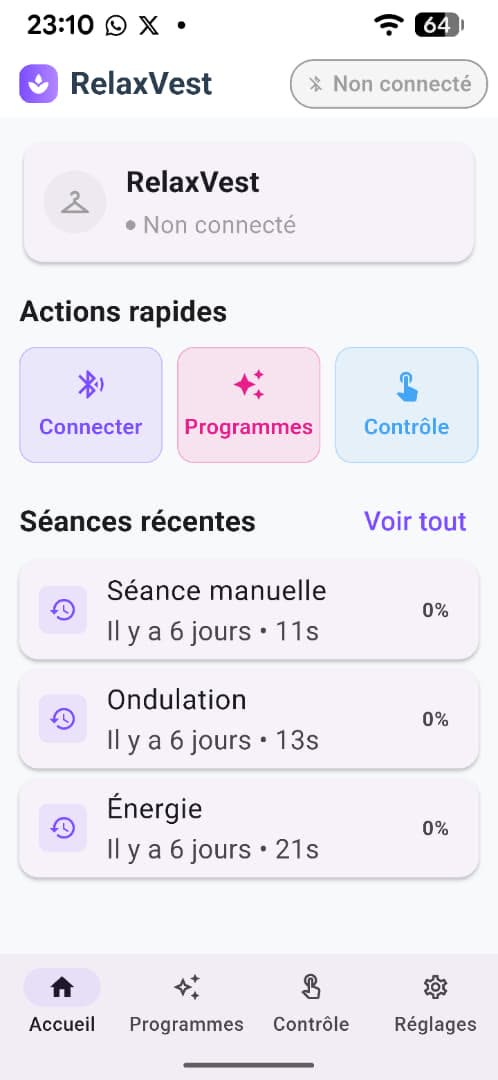
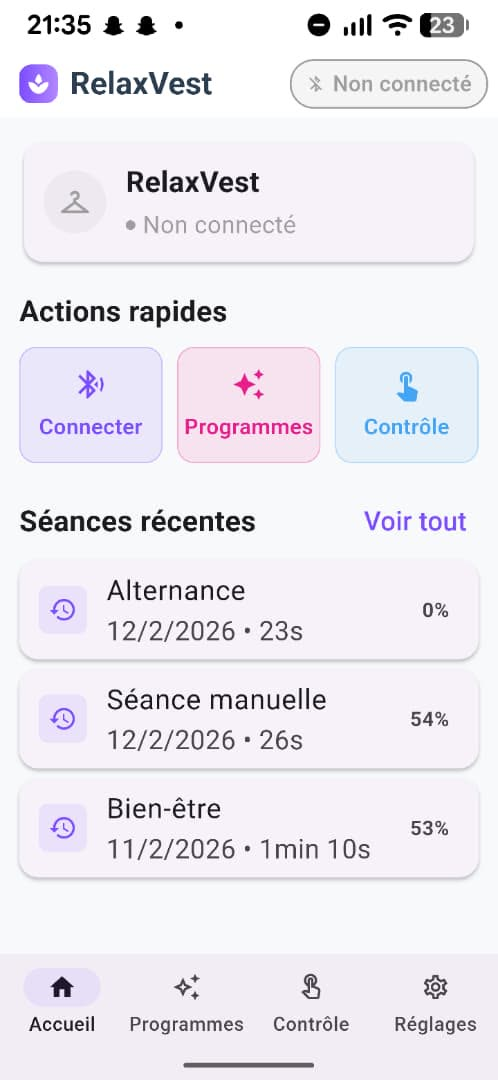
Captures des apps Nesso (bras) et RelaxVest ajoutées aux galeries
- Bras « NESSO » : 3 captures de l'app Flutter (accueil, contrôle
  joystick, mode auto par vision YOLO + cinématique inverse). Texte du
  projet enrichi (5 DOF, vocal, vision).
- RelaxVest : captures de l'app mises à jour (accueil, contrôle tactile,
  modes), version récente.
- Panneau : média en "contain" sur fond pétrole pour afficher les
  captures verticales en entier.

diff --git a/index.html b/index.html
@@ -320,7 +320,7 @@ section{padding:clamp(56px,10vh,110px) 0}
 .panel .p-role{color:var(--glow);font-size:.82rem;font-weight:600;letter-spacing:.1em;text-transform:uppercase}
 .panel .p-lines{margin-top:18px;color:var(--ink)}
 .panel .p-lines li{list-style:none;padding:9px 0;border-bottom:1px solid var(--glass-brd);color:var(--muted);font-size:.95rem}
-.panel .p-media{width:100%;aspect-ratio:16/10;border-radius:var(--r-sm);margin-bottom:12px;background:linear-gradient(135deg,#143b45,#0F3D47 72%);background-size:cover;background-position:center}
+.panel .p-media{width:100%;aspect-ratio:16/10;border-radius:var(--r-sm);margin-bottom:12px;background-color:#0e2a31;background-image:linear-gradient(135deg,#143b45,#0F3D47 72%);background-size:contain;background-repeat:no-repeat;background-position:center}
 .panel .p-thumbs{display:flex;gap:8px;flex-wrap:wrap;margin-bottom:18px}
 .panel .p-thumbs:empty{display:none}
 .panel .p-thumbs button{width:66px;height:48px;padding:0;border-radius:10px;cursor:pointer;border:1px solid var(--glass-brd);background-size:cover;background-position:center;opacity:.65;transition:opacity .2s ease,border-color .2s ease,transform .2s var(--spring)}
@@ -435,8 +435,8 @@ footer .switch a:hover{color:var(--glow)}
       <article class="card" data-project="bras">
         <span class="role">Chef de projet</span>
         <div class="media has-media"><img src="assets/proj-bras.jpg" alt="Bras robotique assemblé avec l'équipe" loading="lazy"><span class="glint"></span></div>
-        <div class="card-body"><h3>Bras robotique</h3><p class="one">Conception et coordination d'équipe.</p>
-          <div class="card-tags"><span>Robotique</span><span>Gestion de projet</span></div></div>
+        <div class="card-body"><h3>Bras robotique</h3><p class="one">Bras 5 DOF « NESSO » et son app de contrôle : joystick, commande vocale, mode auto par vision.</p>
+          <div class="card-tags"><span>Robotique</span><span>App Flutter</span><span>Vision / IA</span><span>Chef de projet</span></div></div>
       </article>
       <article class="card" data-project="relaxvest">
         <div class="media has-media"><img src="assets/proj-relax.jpg" alt="Montage électronique du gilet RelaxVest (ESP32)" loading="lazy"><span class="glint"></span></div>
@@ -527,12 +527,13 @@ const PROJECTS = {
     "Électronique embarquée, marqueur ArUco, capteurs de distance.",
     "IA de trajectoire et de rôles (3 étapes), rendu 3D et pub.",
   ],links:[]},
-  bras:{role:"Chef de projet",title:"Bras robotique",media:"assets/proj-bras.jpg",lines:[
-    "Conception mécanique et choix des actionneurs.",
-    "Coordination de l'équipe projet.",
-    "Prototype fonctionnel.",
+  bras:{role:"Chef de projet",title:"Bras robotique « NESSO »",media:["assets/proj-bras.jpg","assets/proj-nesso-app1.jpg","assets/proj-nesso-app2.jpg","assets/proj-nesso-app3.jpg"],lines:[
+    "Bras 5 DOF (base mobile ou fixe) avec caméra.",
+    "App Flutter de contrôle : joystick, boutons de précision, commande vocale.",
+    "Mode auto par vision : détection d'objet (YOLO) et cinématique inverse.",
+    "Conception mécanique, électronique et coordination d'équipe.",
   ],links:[]},
-  relaxvest:{role:"Mécatronique",title:"RelaxVest",media:["assets/proj-relax.jpg","assets/proj-relax-app.jpg"],lines:[
+  relaxvest:{role:"Mécatronique",title:"RelaxVest",media:["assets/proj-relax.jpg","assets/proj-relax-app.jpg","assets/proj-relax-app2.jpg","assets/proj-relax-app3.jpg"],lines:[
     "Gilet de relaxation à 12 moteurs pilotés.",
     "Carte ESP32 et application Flutter.",
     "Séquences de vibration paramétrables.",
@@ -661,7 +662,7 @@ function openPanel(key){
   const pm=document.getElementById("p-media");
   const thumbs=document.getElementById("p-thumbs");
   const medias = Array.isArray(p.media) ? p.media : (p.media ? [p.media] : []);
-  const showMain=(src)=>{ pm.style.backgroundImage=`url("${src}")`; pm.style.backgroundSize="cover"; pm.style.backgroundPosition="center"; };
+  const showMain=(src)=>{ pm.style.backgroundImage=`url("${src}")`; pm.style.backgroundSize="contain"; pm.style.backgroundRepeat="no-repeat"; pm.style.backgroundPosition="center"; };
   thumbs.innerHTML="";
   if(medias.length){ showMain(medias[0]); } else { pm.style.backgroundImage=""; }
   if(medias.length>1){
